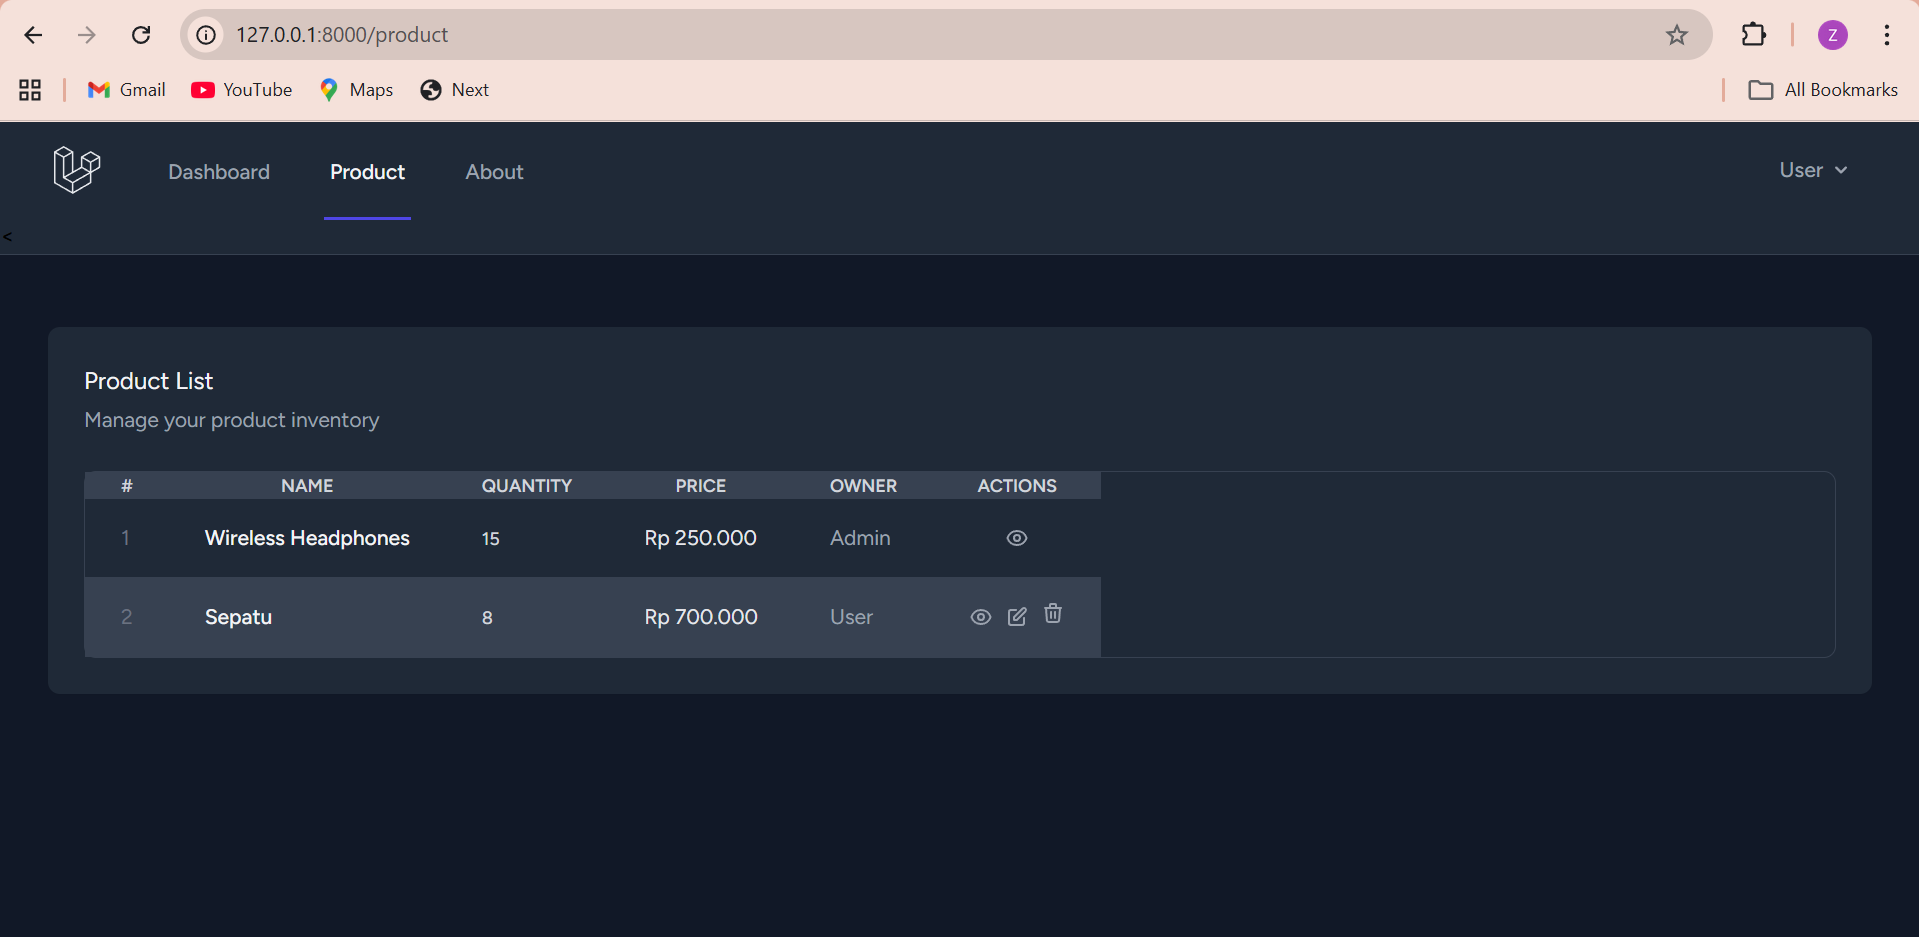
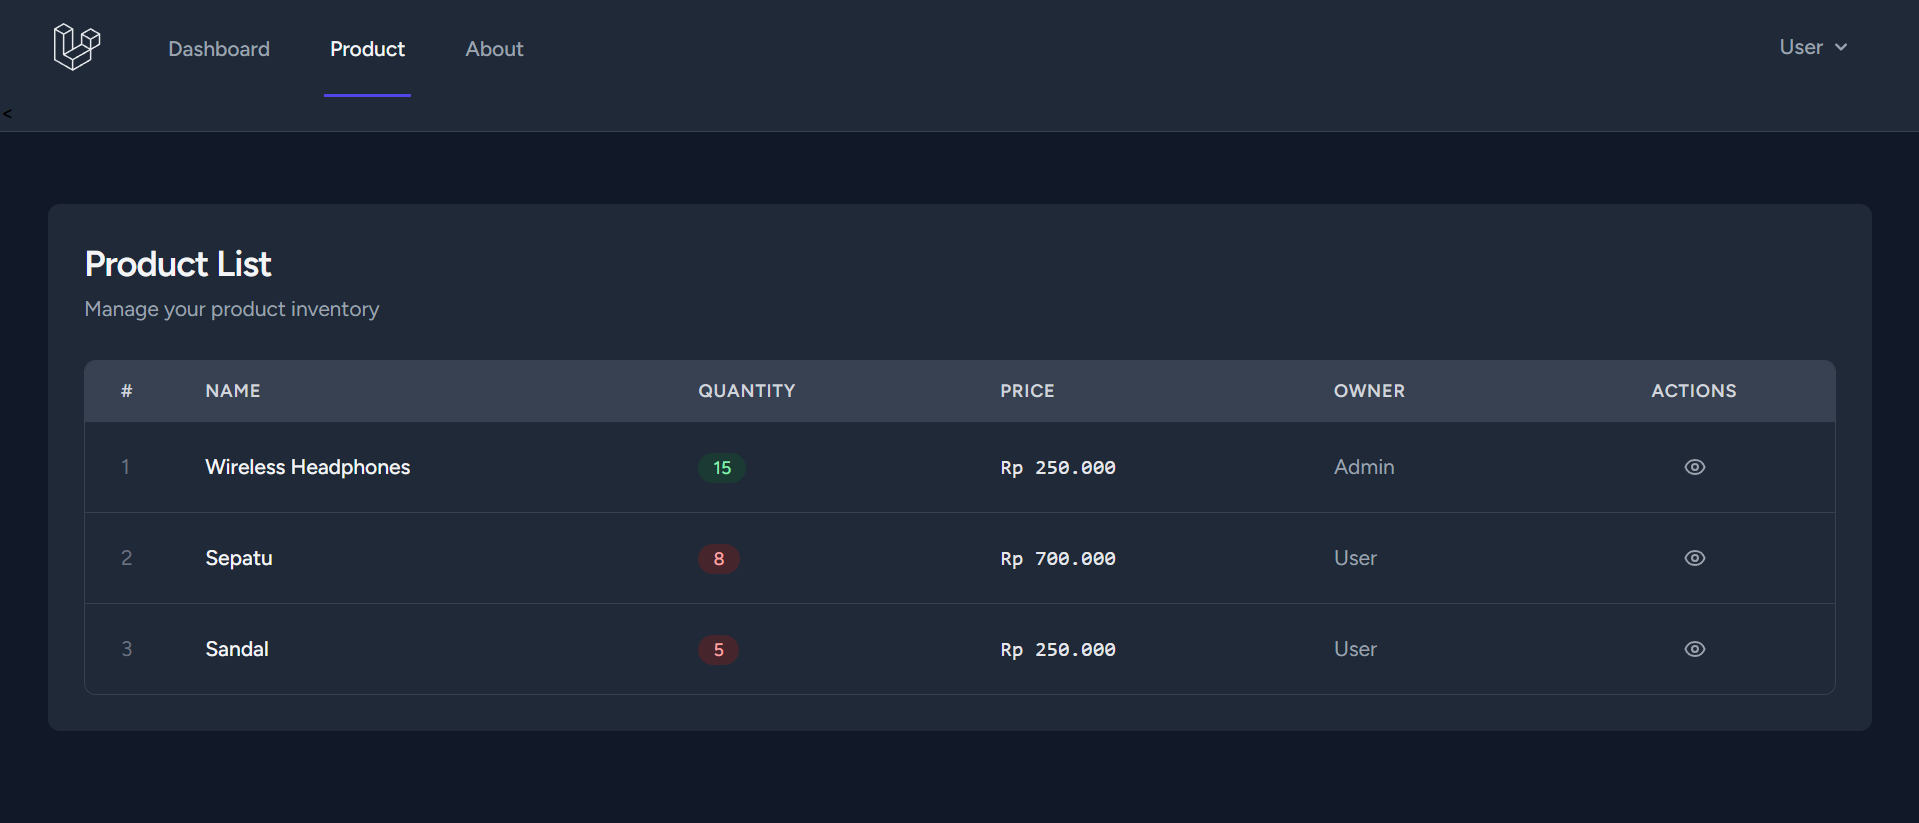
revisi tugas prak5

diff --git a/resources/views/product/index.blade.php b/resources/views/product/index.blade.php
@@ -81,42 +81,35 @@
                                         {{ $product->user->name ?? '-' }}
                                     </td>
                                     <td class="px-6 py-4">
-                                        <div class="flex items-center justify-center gap-2" >
-    
-                                            <a href="{{ route('product.show', $product->id) }}"
-                                            class="p-1.5 rounded-md text-gray-400 hover:text-indigo-600 hover:bg-indigo-50 dark:hover:bg-indigo-900/30 transition"
-                                            title="View">
-                                                <svg xmlns="http://www.w3.org/2000/svg" class="h-4 w-4" fill="none" viewBox="0 0 24 24" stroke="currentColor">
-                                                    <path stroke-linecap="round" stroke-linejoin="round" stroke-width="2" d="M15 12a3 3 0 11-6 0 3 3 0 016 0z" />
-                                                    <path stroke-linecap="round" stroke-linejoin="round" stroke-width="2" d="M2.458 12C3.732 7.943 7.523 5 12 5c4.478 0 8.268 2.943 9.542 7-1.274 4.057-5.064 7-9.542 7-4.477 0-8.268-2.943-9.542-7z" />
-                                                </svg>
-                                            </a>
+                                    <div class="flex items-center justify-center gap-2">
+                                        {{-- View --}}
+                                        <a href="{{ route('product.show', $product->id) }}" class="p-1.5 rounded-md text-gray-400 hover:text-indigo-600 transition">
+                                            <svg xmlns="http://www.w3.org/2000/svg" class="h-4 w-4" fill="none" viewBox="0 0 24 24" stroke="currentColor">
+                                                <path stroke-linecap="round" stroke-linejoin="round" stroke-width="2" d="M15 12a3 3 0 11-6 0 3 3 0 016 0z" />
+                                                <path stroke-linecap="round" stroke-linejoin="round" stroke-width="2" d="M2.458 12C3.732 7.943 7.523 5 12 5c4.478 0 8.268 2.943 9.542 7-1.274 4.057-5.064 7-9.542 7-4.477 0-8.268-2.943-9.542-7z" />
+                                            </svg>
+                                        </a>
 
-                                            @can('update', $product)
-                                            <a href="{{ route('product.edit', $product) }}"
-                                            class="p-1.5 rounded-md text-gray-400 hover:text-amber-600 hover:bg-amber-50 dark:hover:bg-amber-900/30 transition"
-                                            title="Edit">
+                                        {{-- Edit --}}
+                                        @can('update', $product)
+                                        <a href="{{ route('product.edit', $product->id) }}" class="p-1.5 rounded-md text-gray-400 hover:text-amber-600 transition">
+                                            <svg xmlns="http://www.w3.org/2000/svg" class="h-4 w-4" fill="none" viewBox="0 0 24 24" stroke="currentColor">
+                                                <path stroke-linecap="round" stroke-linejoin="round" stroke-width="2" d="M11 5H6a2 2 0 00-2 2v11a2 2 0 002 2h11a2 2 0 002-2v-5m-1.414-9.414a2 2 0 112.828 2.828L11.828 15H9v-2.828l8.586-8.586z" />
+                                            </svg>
+                                        </a>
+                                        @endcan
+
+                                        {{-- Delete --}}
+                                        @can('delete', $product)
+                                        <form action="{{ route('product.delete', $product->id) }}" method="POST" onsubmit="return confirm('Hapus?')">
+                                            @csrf @method('DELETE')
+                                            <button type="submit" class="p-1.5 rounded-md text-gray-400 hover:text-red-600 transition">
                                                 <svg xmlns="http://www.w3.org/2000/svg" class="h-4 w-4" fill="none" viewBox="0 0 24 24" stroke="currentColor">
-                                                    <path stroke-linecap="round" stroke-linejoin="round" stroke-width="2" d="M11 5H6a2 2 0 00-2 2v11a2 2 0 002 2h11a2 2 0 002-2v-5m-1.414-9.414a2 2 0 112.828 2.828L11.828 15H9v-2.828l8.586-8.586z" />
+                                                    <path stroke-linecap="round" stroke-linejoin="round" stroke-width="2" d="M19 7l-.867 12.142A2 2 0 0116.138 21H7.862a2 2 0 01-1.995-1.858L5 7m5 4v6m4-6v6m1-10V4a1 1 0 00-1-1h-4a1 1 0 00-1 1v3M4 7h16" />
                                                 </svg>
-                                            </a>
-                                            @endcan
-                                                                            
-                                            @can('delete', $product)
-                                            <form action="{{ route('product.delete', $product->id) }}" method="POST" 
-                                                onsubmit="return confirm('Delete this product?')">
-                                                @csrf
-                                                @method('DELETE')
-                                                <button type="submit"
-                                                    class="p-1.5 rounded-md text-gray-400 hover:text-red-600 hover:bg-red-50 dark:hover:bg-red-900/30 transition"
-                                                    title="Delete">
-                                                    <svg xmlns="http://www.w3.org/2000/svg" class="h-4 w-4" fill="none" viewBox="0 0 24 24" stroke="currentColor">
-                                                        <path stroke-linecap="round" stroke-linejoin="round" stroke-width="2" d="M19 7l-.867 12.142A2 2 0 0116.138 21H7.862a2 2 0 01-1.995-1.858L5 7m5 4v6m4-6v6m1-10V4a1 1 0 00-1-1h-4a1 1 0 00-1 1v3M4 7h16" />
-                                                    </svg>
-                                                </button>
-                                            </form>
-                                            @endcan
-                                        </div>
+                                            </button>
+                                        </form>
+                                        @endcan
                                     </div>
                                 </td>
                             </tr>

diff --git a/resources/views/layouts/navigation.blade.php b/resources/views/layouts/navigation.blade.php
@@ -20,11 +20,7 @@
                         {{ __('Product') }}
                     </x-nav-link>
                     
-                     @can('manage-product')
-                    <x-nav-link :href="route('category.index')" :active="request()->routeIs('category.index')">
-                        {{ __('Category') }}
-                    </x-nav-link>
-                    @endcan
+                   
 
                     <x-nav-link :href="route('about')" :active="request()->routeIs('about')">
                     {{ __('About') }}
@@ -91,11 +87,6 @@
             {{ __('Product') }}
         </x-responsive-nav-link>
 
-        @can('manage-product')
-        <x-responsive-nav-link :href="route('category.index')" :active="request()->routeIs('category.index')">
-            {{ __('Category') }}
-        </x-responsive-nav-link>
-        @endcan
         
 
         <x-responsive-nav-link :href="route('about')" :active="request()->routeIs('about')">

diff --git a/resources/views/product/view.blade.php b/resources/views/product/view.blade.php
@@ -28,7 +28,7 @@
 
                         {{-- Action Buttons --}}
                         <div class="flex items-center gap-2">
-                       
+                             @can('update', $product)
                             <a href="{{ route('product.edit', $product) }}"
                                 class="inline-flex items-center gap-1.5 px-3 py-2 text-sm font-medium rounded-lg border border-amber-300 dark:border-amber-600 text-amber-600 dark:text-amber-400 hover:bg-amber-50 dark:hover:bg-amber-900/30 transition">
                                 <svg xmlns="http://www.w3.org/2000/svg" class="h-4 w-4" fill="none"
@@ -38,6 +38,7 @@
                                 </svg>
                                 Edit
                             </a>
+                            @endcan
 
                             
                             @can('delete', $product)

diff --git a/app/Policies/ProductPolicy.php b/app/Policies/ProductPolicy.php
@@ -16,12 +16,13 @@ class ProductPolicy
     }
     public function update(User $user, Product $product): bool
     {
-        return $user->id === $product->user_id || $user->role === 'admin';
+      
+        return $user->role === 'admin' && $user->id === $product->user_id;
     }
 
-   
     public function delete(User $user, Product $product): bool
     {
-        return $user->id === $product->user_id || $user->role === 'admin';
+        
+        return $user->role === 'admin' && $user->id === $product->user_id;
     }
 }

diff --git a/app/Http/Controllers/ProductController.php b/app/Http/Controllers/ProductController.php
@@ -15,11 +15,11 @@ class ProductController extends Controller
         return view('product.index', compact('products'));
     }
 
-    public function create()
-    {
-        $users = User::orderBy('name')->get();
-        return view('product.create', compact('users'));
-    }
+    public function create() {
+    Gate::authorize('manage-product'); // Hanya Admin
+    $users = User::orderBy('name')->get();
+    return view('product.create', compact('users'));
+}
 
     public function store(Request $request)
     {

diff --git a/app/Models/User.php b/app/Models/User.php
@@ -20,6 +20,7 @@ class User extends Authenticatable
     protected $fillable = [
         'name',
         'email',
+        'role',
         'password',
     ];
 

diff --git a/pertemuan5.md b/pertemuan5.md
@@ -3,13 +3,24 @@
 ### 1. Implementasi Gate (manage-product)
 
 ![Gate Code](ss-prak5/ss1.png)
-### 2. Tampilan Akun Admin (dapat melihat tombol Delete untuk semua produk)
+### 2. Tampilan Akun Admin 
+
 
 ![Policy Code](ss-prak5/ss2.png)
 
-### 3. Policy: Tombol Edit & Delete hanya muncul untuk produk milik sendiri
+![Policy Code](ss-prak5/add.png)
+
+![Policy Code](ss-prak5/edit.png)
+
+![Policy Code](ss-prak5/detailadmin.png)
+
+![Policy Code](ss-prak5/detailadmin2.png)
+
+### 3. Tampilan akun user
 
 ![Tampilan User](ss-prak5/ss6.png)
+
+![Policy Code](ss-prak5/detail.png)
 
 ### 4. Database sebelum ubah role
 ![Tampilan User](ss-prak5/ss3.png)
@@ -20,6 +31,5 @@
 ### 6. Database setelah ubah role
 ![Tampilan User](ss-prak5/ss5.png)
 
-### 7. Policy: Pengguna biasa akan menerima error 403 ketika mencoba mengedit produk yang bukan miliknya.
-![Error 403](ss-prak5/ss8.png)
+
 
